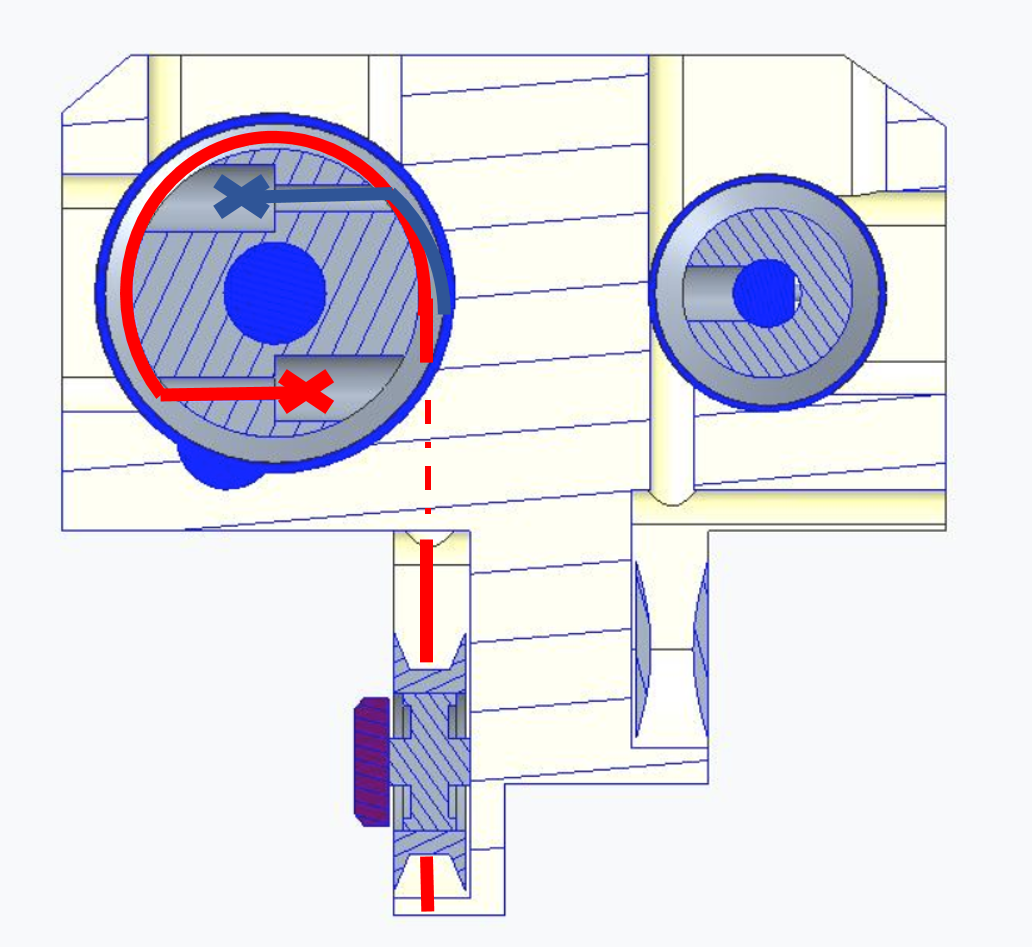
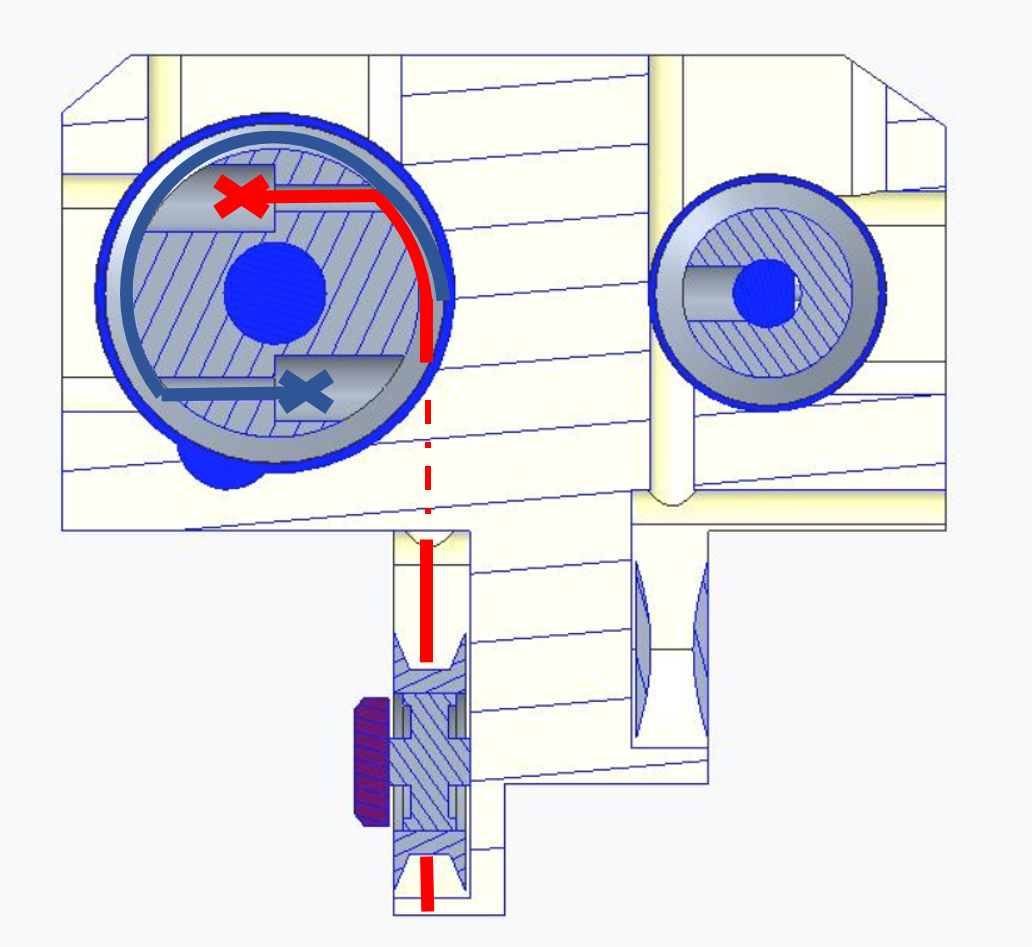
add pictures for proximal cabling for forearmV2

Changed region(s): [[0.093, 0.1225, 0.3721, 0.4287], [0.3721, 0.2144, 0.4341, 0.3369]]

diff --git a/mkdocs/tendons_icub/docs/lower_arm_V2.md b/mkdocs/tendons_icub/docs/lower_arm_V2.md
@@ -150,7 +150,7 @@ The minimum requirement to start recabling distal joints is:
 | ------ | ----- |
 |                                                          | 1. Prepare 2 cables of about 40 cm of IITCODE 2391 and make sure you make the knot as taught above |
 |  <img src ="../img/lowerArm/hole_dist.png" width=400>|!!!watch out!!! the 2 holes are a bit off one to another, make sure with a fat screw driver that the pulley is this way NOT 180 degrees rotated or selse the cables could jump one on another during the closing phase. |
-| <img src ="../img/lowerArm/wir_1_R_P_V2.png" width=400> <img src ="../img/lowerArm/wir_2_P_R.png" width=400> | 2. insert both cable into their respective holes and start wiring as follow |
+| <img src ="../img/lowerArm/wir_1_R_P_V2.png" width=400> <img src ="../img/lowerArm/wir_2_P_R.png" width=400> <img src ="../img/lowerArm/wir_L_R&P_pulley.png" width=400> | 2. insert both cable into their respective holes and start wiring as follow |
 | <img src ="../img/lowerArm/P_R.png" width=400> | 3 .push the 2 cables the shetath until they get out from the 2 holes circled. |
 | <img src ="../img/lowerArm/R_P_cabling.png" width=400>             | 4. cable routing.<br />To be able to pass the cable at the base of the nail it is important to remove the nail and move forward the fingertip for 1 cm from its base. |
 | picture sul vero robot | 5. please write with a marker at the base of the nails where the knot should be in order to have a perfect simultaneous closing for both fingers. |
@@ -163,29 +163,17 @@ The minimum requirement to start recabling distal joints is:
 
 ### Where are those cables located?
 
-Here is the table to locate all the distal joints on a forearm (**left** in this case)
-
-| LOCATION                                                     | JOINT                                | POSITION                                                     |
-| ------------------------------------------------------------ | ------------------------------------ | ------------------------------------------------------------ |
-| <img src ="../img/lowerArm/index_middle_V2.png" height=auto width=400> | Index and Middle                     | they are located **ATOP** the forearm when it <u>lies</u> palm face **DOWN** |
-| <img src ="../img/lowerArm/TH_R&P_V2.png" height=auto width=400> | Thumb distal **AND** Ring and Pinkie | They are located **ATOP** when the forearm <u>lies</u> palm face **UP** |
+| LEFT FOREARM                                                 | RIGHT FOREARM                                                |
+| ------------------------------------------------------------ | ------------------------------------------------------------ |
+| <img src ="../img/lowerArm/L_4RM_Prox_Pos.png" height=auto width=400> | <img src ="../img/lowerArm/R_4RM_Prox_Pos.png" height=auto width=400> |
+| <img src ="../img/lowerArm/L4RM-ElbowView.png" height=auto width=400> | <img src ="../img/lowerArm/R4RM-ElbowView.png" height=auto width=400> |
 
 
 
 If ever you realize that one of the following cable is broken bear in mind:
 
-The start of the wiring for each proximal is identical, only the wiring at the base of each finger differs:
-
-* The basic ones which go inside a motor shaft to get anchored, and as soon as the motor is spinning the cable rolls around the pulley and close the joint. Those motors are <u>*perfectly*</u> identical - only the positions differ :
-
-  > Index & Middle proximal joint
-
-* The trickiest one 
-
-  > Thumb Proximal
-
-### 
-
+!!!TIP
+    The start of the wiring for each proximal is identical (wiring around the motor pulley), the index and middle proximal joints are cabled exactely the same way, just the thumb is a bit trickier.
 
 
 ### Let's start wiring!!!
@@ -197,4 +185,29 @@ The minimum requirement to start recabling the proximal joints is:
 | IITCODE | Alias    | Description                                                  |
 | ------- | -------- | ------------------------------------------------------------ |
 | 1815    | CG077063 | Stainless steel microcable, cable construction 7x7mm, nom. dia 0,63mm, not coated, AISI 316 |
+
+#### 	2. Cabling the Motor Pulley
+
+| LOCATION   | step by step guide      |
+| --- | --- |
+|       | 1. Take 1 meter of IITCODE 1815             |
+|<img src ="../img/lowerArm/start_prox.png" width=400> <img src ="../img/lowerArm/start_prox1.png" width=400>| Turn the pulley in order to have the threads already facing (pointing toward) the holes inside the pink frame and the hole inside the pulley itself lying at horizontal. |
+| <img src ="../img/lowerArm/wiring_prox1.png" width=400> | insert the cable inside the pulley and equitabily half the cable on both side of the pulley  |
+| <img src ="../img/lowerArm/wiring_prox_pulley3.png" width=400> <img src ="../img/lowerArm/wiring_prox_pulley.png" width=400> <img src ="../img/lowerArm/wiring_prox_pulley2.png" width=400> | 2. respect the only one rule :2 full turns around the pulley for the hole close to the ball bearing (blue part) and 1 full turn for the part of the cable for the cable that will go into the hole the closest from the motor (red) |
+
+!!!tip
+    YOU may need to use the cable , glue it a the tip (2cm long) on both side. With a plier make 2 times 90 degre angles on the cable at about 3-4mm from one another. see picture to manage to extract the cable once it passes in between the thread and the neck of the frame.
+    !!!PICTURE NEEDED!!!!
+
+| LOCATION   | step by step guide      |
+| --- | --- |
+| <img src ="../img/lowerArm/holes_prox.png" width=700>  |  !!!!WARNING!!! the cabling for the thumb passed first by a pair of pulleys before to reurn to a perfectly identical cabling as Index and Middle|
+| <img src ="../img/lowerArm/exit_prox.png" width=700>               | 3 .push the 2 sides of the cable inside the sheath (+) and (-) |
+|   | the 2 sides of the cables should get out:|
+|    <img src ="../img/lowerArm/exit_prox_thumb.png" width=700> | For the THUMB only: the cabling for the thumb passed first by a pair of pulleys before to reurn to a perfectly identical cabling as Index and Middle|
+| <img src ="../img/lowerArm/exit_prox_I&M.png" width=700> <img src ="../img/lowerArm/exit_prox_thumb2.png" width=700>  |  For all the proximal joint the final cabling start at the base of their respective finger |
+| <img src ="../img/lowerArm/last_pulley_prox.png" width=700>       | 4. cable as follow and block each side of the cable with the nut screw M1.6x3 |
+| picture from real robot| tense each side of the cable by releaasing the nut screw and pinch and rotate. CLose the nut screw.|
+| picture sul vero robot     | 5. make not at the base of the exit but a little further but keep in mind that the knot will have to remain in the slot |
+|    | **FINISHED!!!**        |
 
